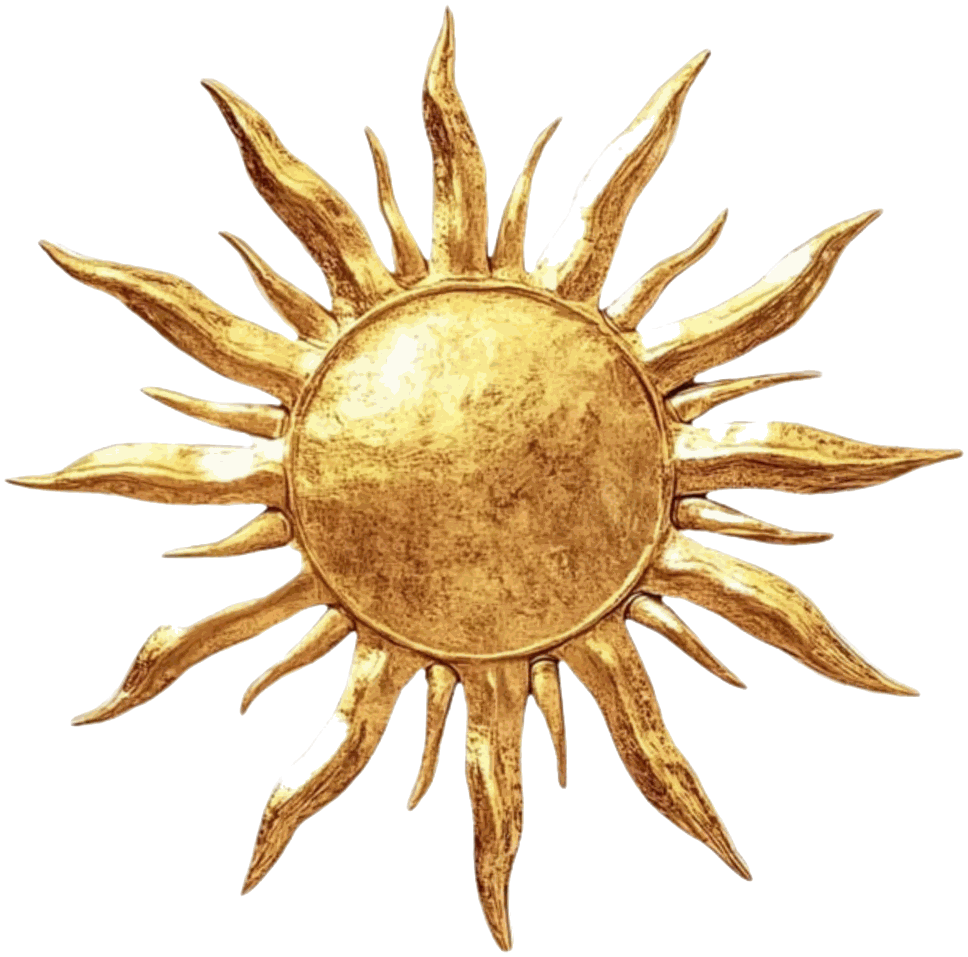
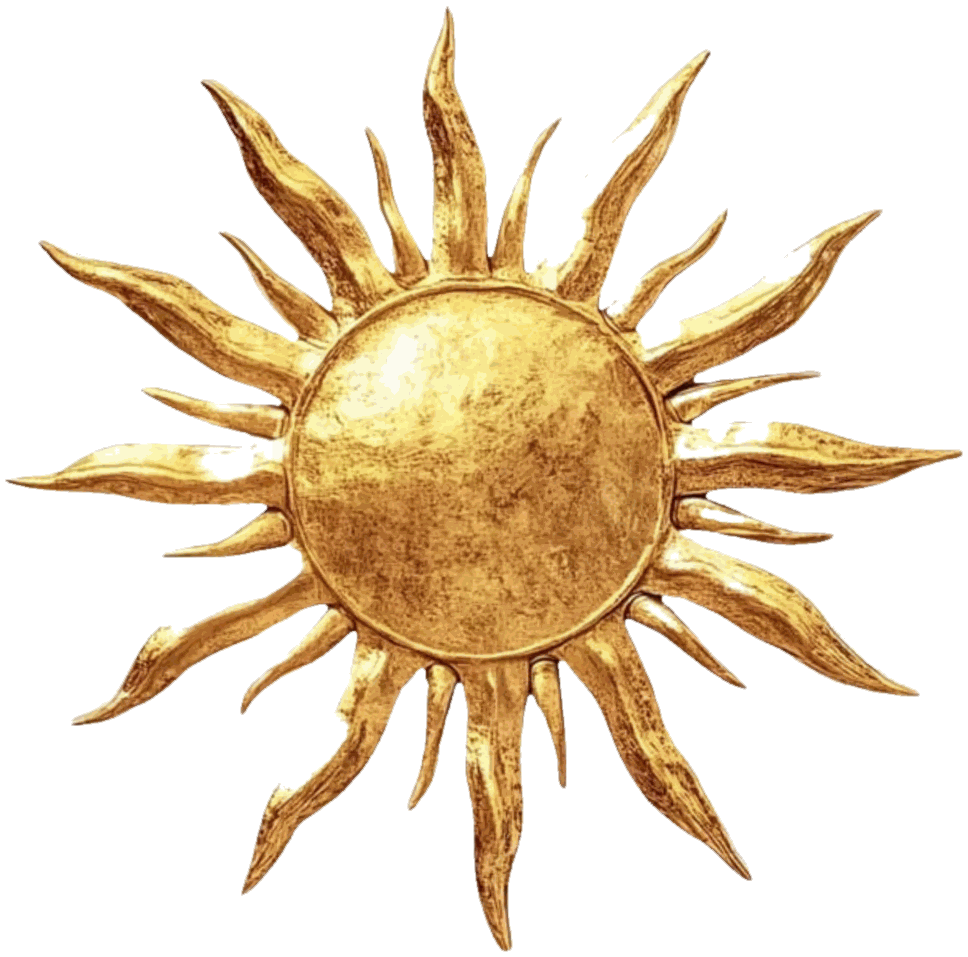
Recentrer la page et graver les initiales dans le soleil
Le demi-soleil de fin depassait la largeur de l'ecran : sur iOS, la page
s'elargissait et tout paraissait decale vers la gauche. Il tient dans
92 vw et html est en overflow-x: clip.

La decoupe du soleil est nettoyee hors du disque : blanc residuel du fond
et lisere clair retires, bord adouci. Les initiales sont gravees dans le
disque comme sur le sceau de cire du film, brun dore avec un filet clair.

Claude-Session: https://claude.ai/code/session_01L1KSdpdw8eBMkTSTbBFb4v

diff --git a/src/styles/sections.css b/src/styles/sections.css
@@ -50,7 +50,8 @@
 }
 
 .end__sun {
-  --end-sun: min(118vw, 600px);
+  /* Jamais plus large que l'écran : un débordement horizontal élargit la page sur iOS et décale tout. */
+  --end-sun: min(92vw, 460px);
   /* On montre 56 % de la découpe : le disque (29 % à 66 % de sa hauteur) reste lisible. */
   position: relative;
   width: var(--end-sun);
@@ -448,19 +449,21 @@
 /* ---------- Fin ---------- */
 
 /*
- * Initiales dans le disque : centre du disque à 48 % de la largeur et 47,5 %
- * de la hauteur de la découpe, on les pose un peu au-dessus, dans la partie
- * visible. Brun sur or, gros corps : le contraste tient pour un titre, et une
- * ombre claire très courte détache le trait du grain de l'or.
+ * Initiales gravées dans le disque, comme sur le sceau de cire du film : un
+ * brun doré profond, un filet clair juste en dessous, et l'or de la découpe
+ * qui reste la matière. Centre du disque à 48 % de la largeur ; on pose les
+ * lettres à 41 % de la hauteur, dans la partie visible.
  */
 .end__monogram {
   position: absolute;
   top: calc(var(--end-sun) * 957 / 968 * 0.41);
   left: 48%;
   transform: translate(-50%, -50%);
-  font-size: clamp(3rem, 14vw, 4.5rem);
-  letter-spacing: 0.08em;
+  font-size: clamp(2.6rem, 12vw, 3.8rem);
+  letter-spacing: 0.12em;
   line-height: 1;
-  color: var(--ink);
-  text-shadow: 0 1px 0 rgb(255 244 236 / 0.55);
+  color: rgb(84 52 14 / 0.9);
+  text-shadow:
+    0 1px 0 rgb(255 236 190 / 0.55),
+    0 -1px 0 rgb(60 35 5 / 0.35);
 }

diff --git a/src/styles/global.css b/src/styles/global.css
@@ -40,6 +40,9 @@
 html {
   -webkit-text-size-adjust: 100%;
   text-size-adjust: 100%;
+  /* Un élément plus large que l'écran ne doit jamais élargir la page : iOS
+     ignore `overflow-x: hidden` sur le body seul et décale tout le contenu. */
+  overflow-x: clip;
 }
 
 body {

diff --git a/docs/DECISIONS.md b/docs/DECISIONS.md
@@ -50,3 +50,6 @@
 | 2026-09-13 | 2 | Fin de page compacte : plus de `min-height: 100dvh`, la phrase, un lien discret « revoir le film », le demi-soleil | Adham : un écran de vide avant la fin, « pas cadré, bricolé ». La section faisait un écran entier avec son contenu poussé en bas. |
 | 2026-09-13 | 2 | Calque de fond prolongé de 60 vh sous le viewport, dégradé calé sur 100lvh puis teinte de fin | Ligne de rupture visible derrière la barre de Safari sur iPhone, où la zone affichée dépasse `100lvh`. |
 | 2026-09-13 | 2 | Le bouton FR/EN s'efface après 160 px de défilement | Il passait sur les titres des sections. La langue se choisit sur l'enveloppe ou le hero. |
+| 2026-09-13 | 2 | Demi-soleil de fin ramené à 92 vw max et `overflow-x: clip` sur `html` | Adham : tout paraissait décalé à droite. Un élément plus large que l'écran élargit la page sur iOS, qui ignore `overflow-x: hidden` sur le body seul. |
+| 2026-09-13 | 2 | Découpe du soleil nettoyée hors du disque : blanc résiduel du fond et liseré clair retirés, bord adouci d'un pixel ; le disque n'est pas touché | Restes du détourage automatique visibles sur le pêche. Un premier essai touchait aussi le disque et y creusait des trous dans les reflets. |
+| 2026-09-13 | 2 | Initiales de fin gravées dans le disque : brun doré profond, filet clair dessous, filet sombre dessus | Adham : brun sur or « pas pro ». La gravure rappelle le sceau de cire du film et laisse l'or être la matière. |

diff --git a/docs/LESSONS.md b/docs/LESSONS.md
@@ -110,3 +110,9 @@
 - **Contexte** : calque de fond fixe en `height: 100lvh` après la correction de la bande claire.
 - **Symptôme** : une ligne de rupture derrière la barre de Safari, sans grain et d'une teinte proche.
 - **Règle** : un calque fixe de fond déborde franchement sous le viewport (`bottom: -60vh`), le dégradé reste calé sur `100lvh` et le reste prend la teinte de fin. On ne fait pas confiance aux unités de viewport pour un bord d'écran.
+
+### Un élément plus large que l'écran décale toute la page sur iOS
+- **Contexte** : demi-soleil de fin en `min(118vw, 600px)`.
+- **Symptôme** : sur iPhone, une bande vide à droite, tout le contenu paraît décalé vers la gauche. Rien en headless.
+- **Cause** : iOS ignore `overflow-x: hidden` posé sur le body seul ; le débordement élargit le viewport de mise en page.
+- **Règle** : aucun élément au-delà de 100 vw, et `overflow-x: clip` sur `html`. Vérifier `document.documentElement.scrollWidth === innerWidth` dans les tests.
